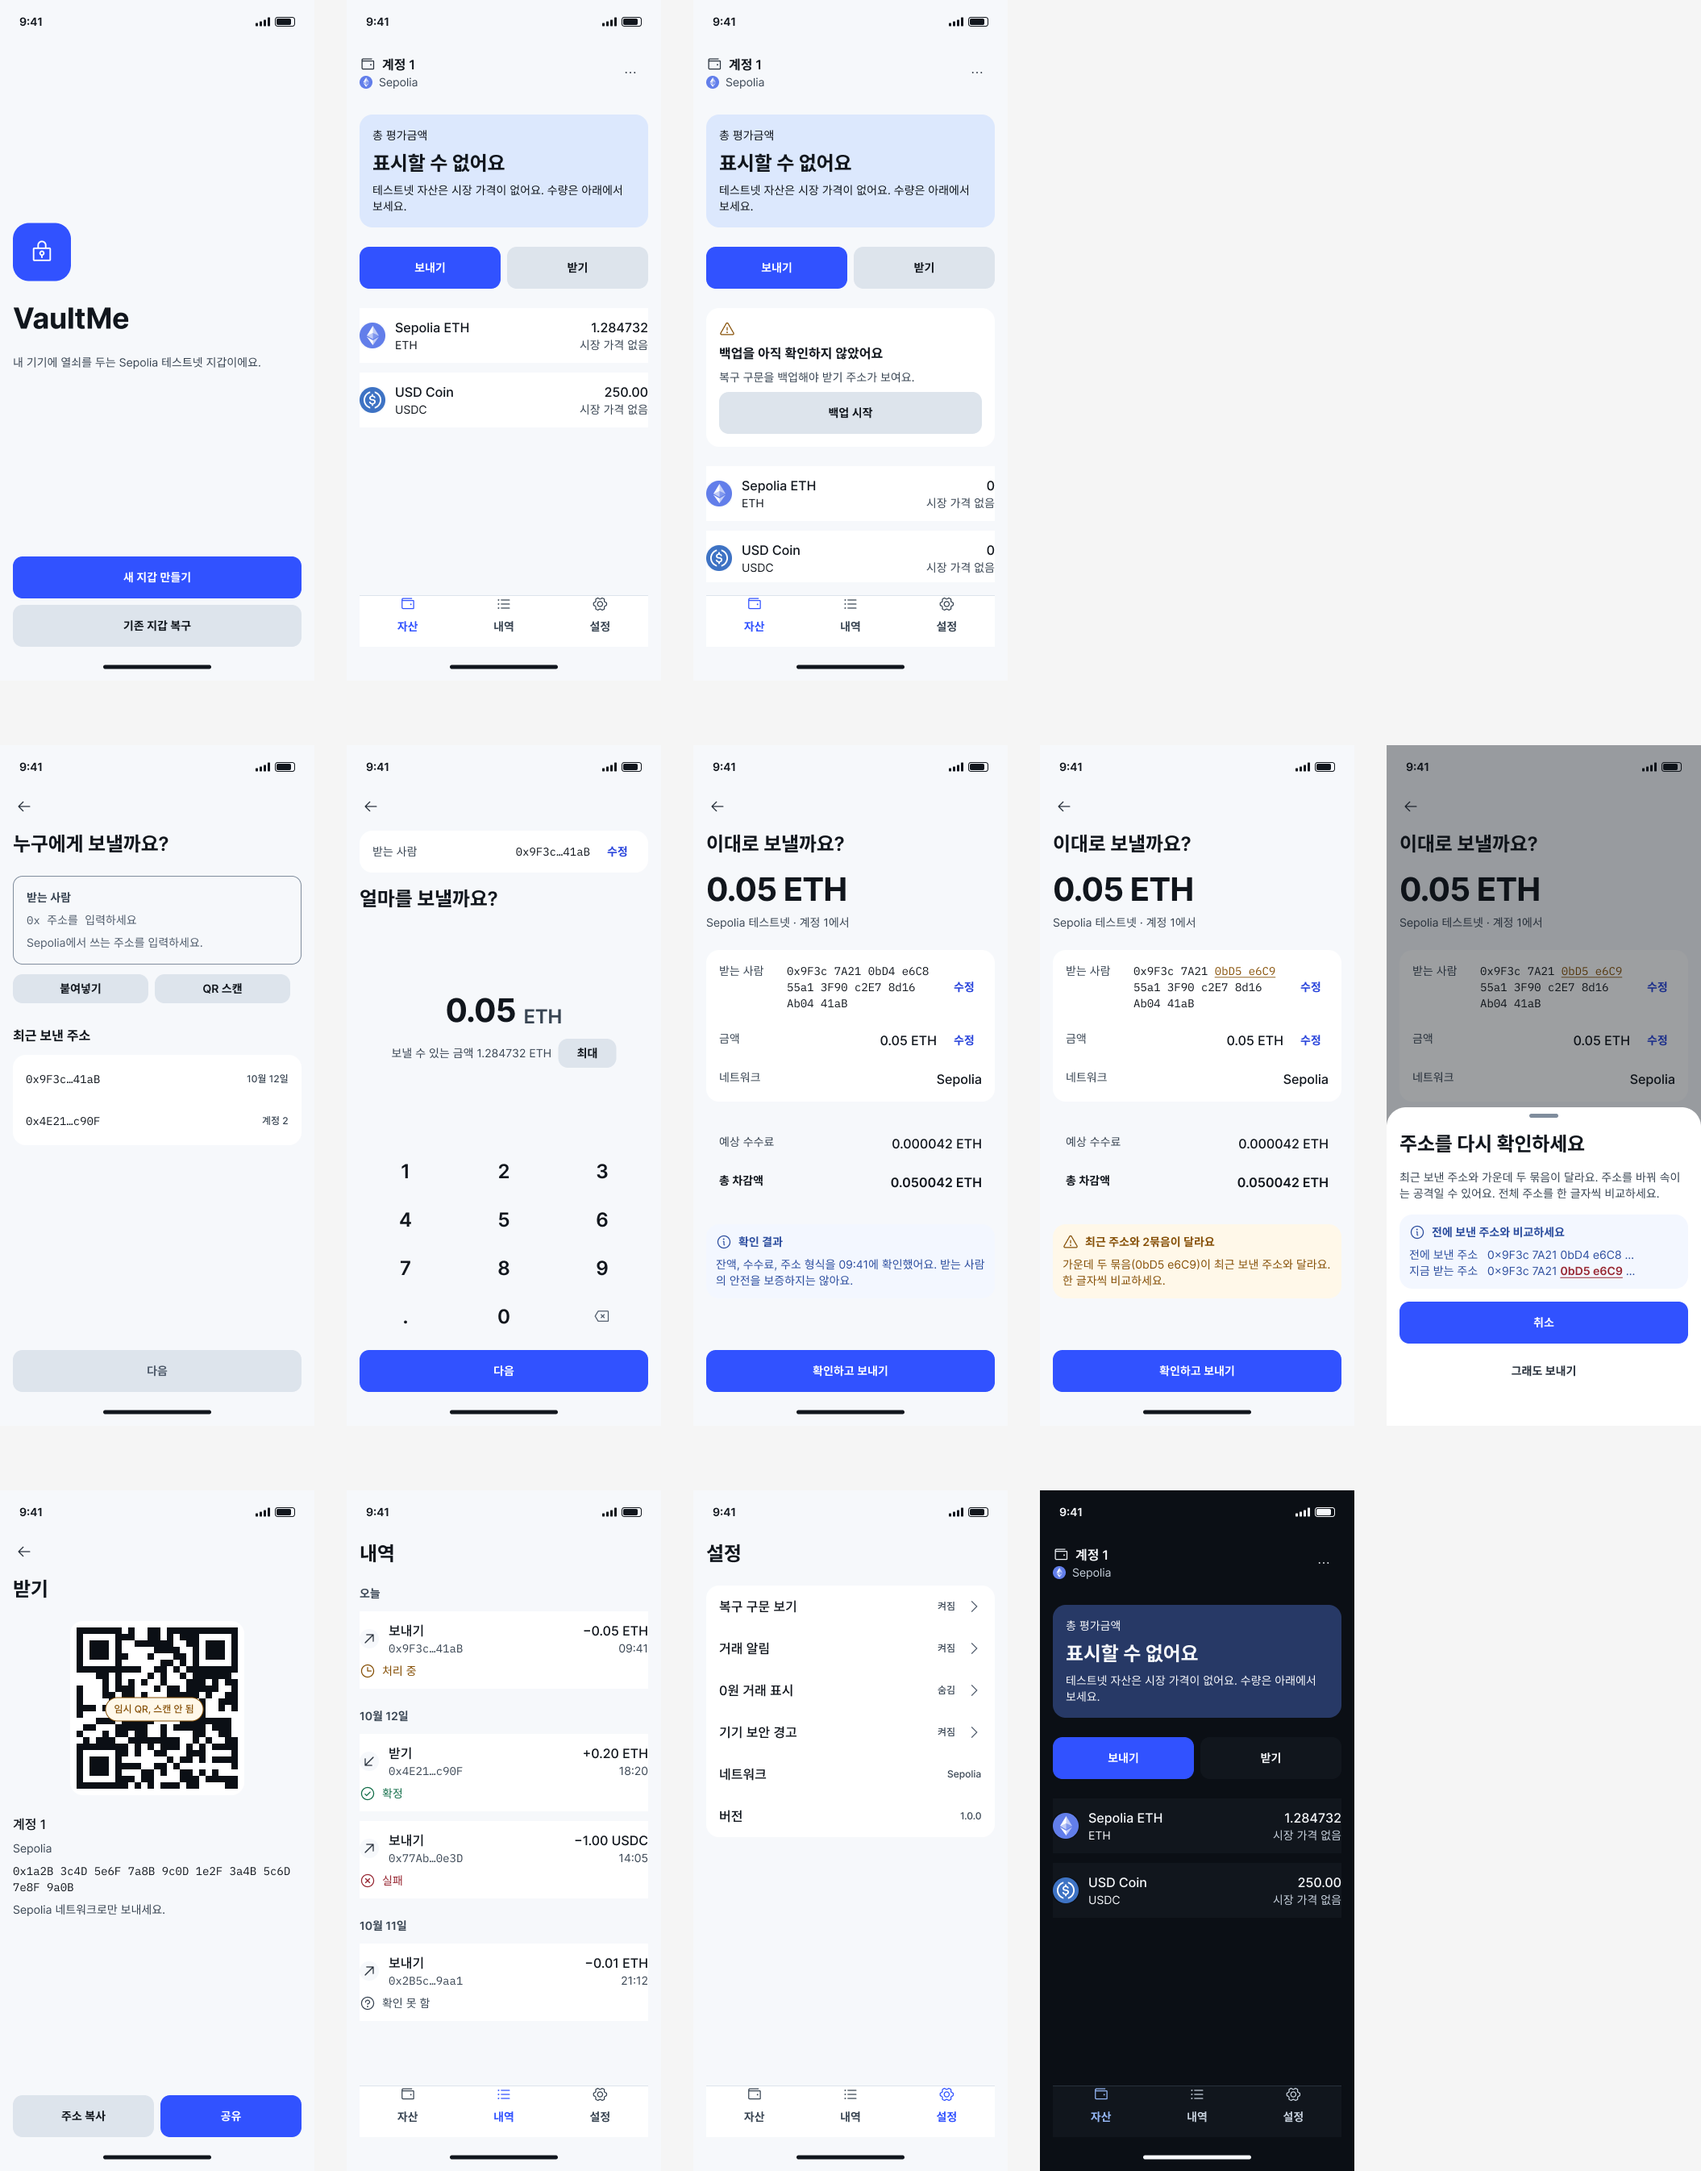
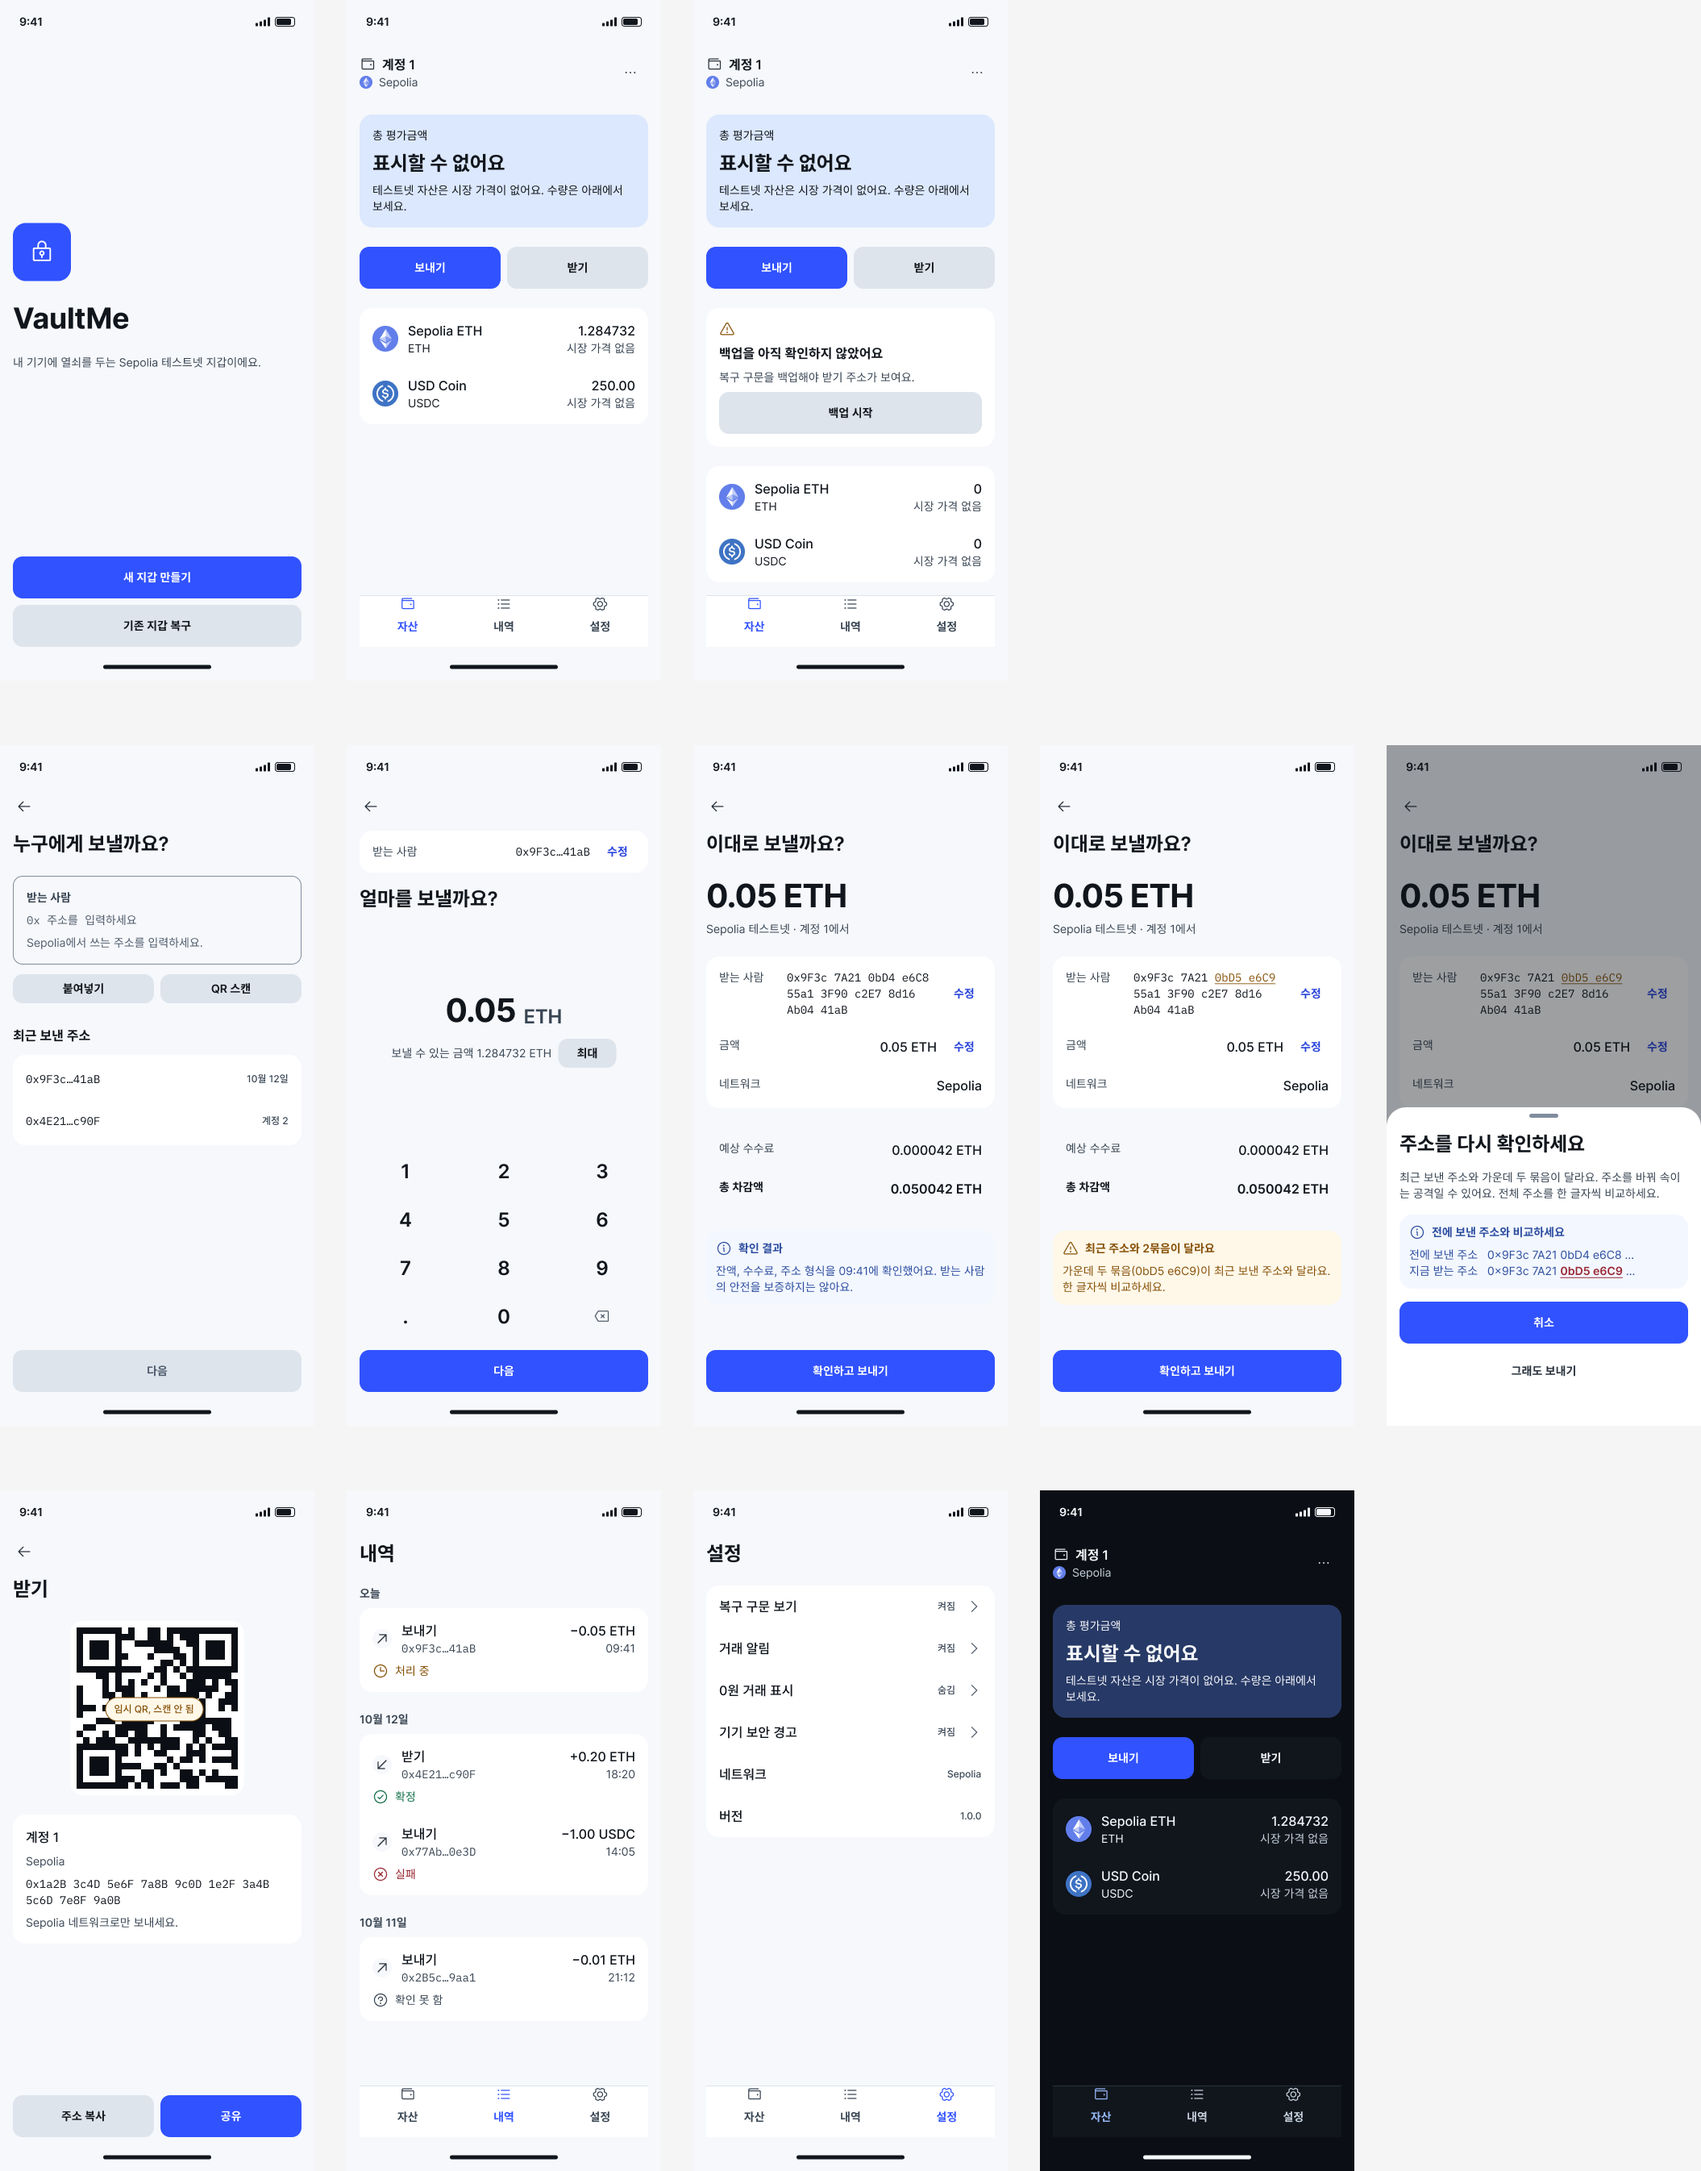
design: borderless containers and spacing pass on Redesign A (#9)

diff --git a/outputs/design/research/figma-community-wallet-refs.md b/outputs/design/research/figma-community-wallet-refs.md
@@ -1,0 +1,76 @@
+# Figma Community wallet/fintech references (VaultMe)
+
+Method and limits (read first)
+- Browsed Figma Community in the desktop app (global Community tab; VaultMe file tabs untouched). No duplicate, like, comment, follow, login.
+- Evidence = search-result thumbnails, cover images, file-page gallery. Layers were NOT opened, so exact pt values are NOT verified.
+  Sizes below are visual estimates from 375/390pt-wide covers; treat as ranges, not specs.
+- File URLs are not exposed by the desktop app (no address bar). Links are Community search URLs that surface each file by name.
+  Pattern: https://www.figma.com/community/search?resource_type=mobile_ui_kit&q=<name>  (resource_type may need dropping).
+- No images saved. Light mode is rare in results: most wallet kits are dark/gradient promo covers.
+
+## References (likes / users as shown at browse time)
+1. Money Transfer App - Ananda Faris - 27 likes / 3.1k - q="Money Transfer App Ananda Faris"
+   Light, 11 screens, 2 flows (Send Money, Pay with QR). Closest flow match.
+   - Keypad: 3x4 grid (1-9, 00, 0, backspace), no key borders/fills, digits ~24-28pt regular on white card; full-width blue "Transfer" pill below.
+   - Amount shown large (~32-40pt) inside a rounded card with recipient chip above it.
+   - QR screen: small gray caption under title, QR on white card, yellow-tint info pill "Regenerate the QR Code" at bottom.
+   - Home: balance ~28-32pt bold, 3 circular action buttons (Send/Add/Top up) with labels below; "Quick Send" avatar row; list rows with avatar+title+amount, hairline-free.
+2. Coin Sensei - Money Tracker - Reihan D. Challada - 44 / 1.5k - q="Coin Sensei"
+   Light + dark, 50+ screens.
+   - Review screen: back arrow + centered title, stepper breadcrumb on top, summary card, key-value rows (Category/Type/Date/Time/Note) in small gray text ~11-12pt, then green full-width primary "Finish" + text-only "Cancel" below (primary + text secondary pair, not two filled buttons).
+   - Transaction list: grouped by date headers (Today / Yesterday), rows are small cards with a colored left edge (green/red), not dividers.
+3. Ghost Crypto Wallet UI Kit - Light Mode - Samson Oluwajunse - 67 / 1.7k - q="Ghost Crypto Wallet UI Kit"
+   Phantom-like. Light, variables, 65+ screens.
+   - Home: tiny account chip + large balance ("$" small and gray, number ~40-48pt bold), gray delta line below, then a row of 3-4 equal square-ish action tiles with icon above label (light gray fill, no border).
+   - Settings sheet: segmented theme picker (System/Light/Dark) with a single blue outline for selected; sheet on near-white with big radius (~24-32); close "x" in a gray circle top-right.
+   - Success state: centered playful illustration + short headline.
+   - Cover shows numeric keypad (large digits, no key chrome) and bottom CTA.
+4. Crypto Wallet App - Rabah - 142 / 7.8k - q="Crypto Wallet App Rabah"
+   Light and dark side by side, only 2 screens. Home = greeting + balance headline, horizontal coin cards, "Market Statistics" list (icon, name/ticker, sparkline, price/change) with no dividers, Deposit/Withdraw as a green + red filled pair. Trading-oriented; use only for list density (row ~56-60pt).
+5. Free Banking Mobile App UI Kit (light and dark, 43+ screens) - Divus Motion - 589 / 29.9k
+   Plain white screens with blue primary full-width buttons, heavy card use, parallel light/dark sets (good proof of token pairing). Standard list rows w/ chevrons.
+6. iBank - Banking & E-Money Management - Seju - 2k / 99.9k (most popular banking kit seen) - q="iBank Seju"
+   Cover only. 200+ free screens, white background, blue accent, rounded cards. Consensus-confirming, no new detail.
+7. Free - Figma UI kit - Payment Banking Mobile App - FTDesign Fintech UIkit - 150 / 10.2k
+   Light, 4 screens, blue primary, dark balance card, bar chart. Card-heavy.
+8. Finance Mobile UI Kit - Paperpillar - 53 / 1.9k
+   Dark+light, includes keypad screen (3x4 grid, no key borders) and "Send Money" recipient picker with avatar rows and amount shown on a gradient card.
+9. Unipay: Wallet App iOS UI Design System - Unipay - 263 / 14.6k
+   Dark-first, cover only; included as 'pro' wallet system reference (cards, tokens). Low light-mode value.
+10. Credify / Finix / AiWallet (Seju, paid $8) - 213 / 4.9k, 57 / 1.2k, 110 / 4.3k
+   Cover only. Clean white + indigo, light/dark; confirms indigo/blue primary, card-in-card, white surfaces.
+11. Crypto Wallet - Mobile app - notion studios - 390 / 20k (dark home with trading chart) - dark only; skip for light.
+12. Toss search: only fan recreations (Toss mobile app copy by 신희빈, Toss wireframes by 이윤재, 11-12 likes). No Korean-grade reference found in Community; rely on Toss behavior knowledge instead (one-question-per-screen, large title, bottom sticky CTA).
+Not found: any Community file with explicit suspicious-address warning states or detailed sheets; "web3 wallet" results (Avocado, MetaSafe, Tegro, Omiri, "Web3 Connect Wallet" Omi Gusty Rifani 11 likes) are dark/promo and show connect-wallet modals only.
+
+## Pattern table
+| Topic | What references do | Consensus |
+|---|---|---|
+| Page title | Centered nav title ~16-18pt on detail screens; big left-aligned titles only on onboarding/Toss-style | Detail screens: 17-18pt nav title. Hero text (balance/amount) is the largest element, 32-48pt bold |
+| H padding | ~20-24pt (cards ~16 inside) | 20pt common, 24pt in roomier kits |
+| Group gaps | 24-32pt between sections; 8-12pt between sibling cards | 8/12 tight, 24/32 section |
+| Rows | Avatar/icon 40-44 + 2-line text + right-aligned amount; ~56-72pt tall | Most kits use cards or colored edges; Ghost/Rabah lists are flat with no dividers. Few use hairlines |
+| Buttons | Full-width filled primary (48-56pt, radius 12-16 or pill); secondary = text or light-tint fill; Deposit/Withdraw = side-by-side filled pair | Primary + quiet text/tinted secondary beats two filled buttons (Coin Sensei Finish/Cancel) |
+| Keypad | 3x4, digits 24-28pt, no key borders, backspace bottom-right, "00" or "." bottom-left, CTA directly under | Chrome-less keys; amount large above; recipient chip above amount |
+| Review | Title, summary card, key-value rows (small gray label, dark value), primary CTA pinned bottom | Label left / value right, full-width CTA, cancel as text |
+| Home actions | 3-4 equal tiles/circles, icon over label | Icons in light-gray tinted container, no border |
+| QR | QR on white card, caption gray, info pill tinted yellow for notice | Tinted pill for notices rather than red alerts |
+| Warnings | Tinted pill (yellow) in QR screen; none for risky address | Not covered by community kits: design ourselves |
+| Sheets | Radius ~24-32, close x in gray circle, selected = single blue outline | Large radius, quiet chrome |
+| Motion | Not visible in static assets; success screens use an illustration | n/a |
+
+## Recommendations for VaultMe (light mode, Korean, 390pt canvas)
+- Page title: nav/step title 20-22pt semibold (Korean glyphs read lighter; step questions on Send like Toss = 24pt bold, left-aligned, max 2 lines). Hero numerals (balance, amount) 40pt bold tabular numerals. Section headers 13-14pt medium gray.
+- Content padding: 20pt horizontal everywhere; card inner 16pt; sheet inner 24pt. Keep one value, no per-screen variants.
+- Gap scale: 4 / 8 / 12 / 16 / 24 / 32. 8 between related controls, 16 within a group, 24 between groups, 32 before a new section or above the sticky CTA area. Bottom CTA: 20 side, 16 above home indicator.
+- List rows: flat, borderless, 64pt tall (icon 40 + 12 gap). Separation by whitespace only; date-group headers (13pt gray, 24pt top gap) give structure for Activity. Press state = soft gray fill (surface-2) with 12pt radius. Optional 1px hairline inset only if rows get dense on Settings.
+- Buttons: primary 56pt, radius 16, full width; secondary on the same screen = text button or tinted fill, never two filled buttons. Home Send/Receive: two equal tinted-filled buttons side by side (primary-filled Send, tinted Receive) or Ghost-style icon tiles; pick one and use it everywhere.
+- Review/confirm: left-aligned 24pt title ("보내기 전에 확인하세요"), amount hero at top, then key-value rows (label gray left, value right; address shown in full wrapped over 2 lines in monospace with first 6 / last 6 chars emphasized), fee row and total row separated by whitespace. Sticky bottom CTA + text "취소". Do not truncate the address.
+- Keypad: 3x4, no key borders/fills, 28pt digits, 64pt tall hit areas, backspace bottom-right, decimal bottom-left (no 00 for crypto). Amount 40pt with currency toggle/secondary fiat line in gray 14pt; inline error (red text under amount) for insufficient balance; CTA disabled until valid. One question per step: title 24pt + input + CTA.
+- Warnings: no community precedent, so design explicitly. Suspicious address = tinted banner (danger-tint bg, 1px danger-border not needed, icon + 14pt text + "자세히" link) above the address on Review, CTA changes to destructive-styled "그래도 보내기" requiring a second tap/confirm sheet; first-time address = neutral/yellow tinted pill. Never use color alone (icon + text).
+- Sheets: top radius 28, grabber 36x4 at 8pt from top, 24pt padding, close x not required when grabber present; scrim 40% black; one primary action at the bottom.
+- Motion: 200-250ms ease-out for sheet and step transitions (horizontal slide on Send steps, shared-axis); keypad key press scale 0.96 + haptic light; amount digits cross-fade 120ms; success = checkmark draw 400ms + haptic success; respect reduced motion (fade only).
+
+## Caveats
+- Numbers above are estimates; verify by duplicating a file in a real session if exact specs are needed.
+- Community is dominated by dark trading/crypto kits; most Korean-style fintech clarity must come from Toss/Kakaobank behavior, not from Community.
